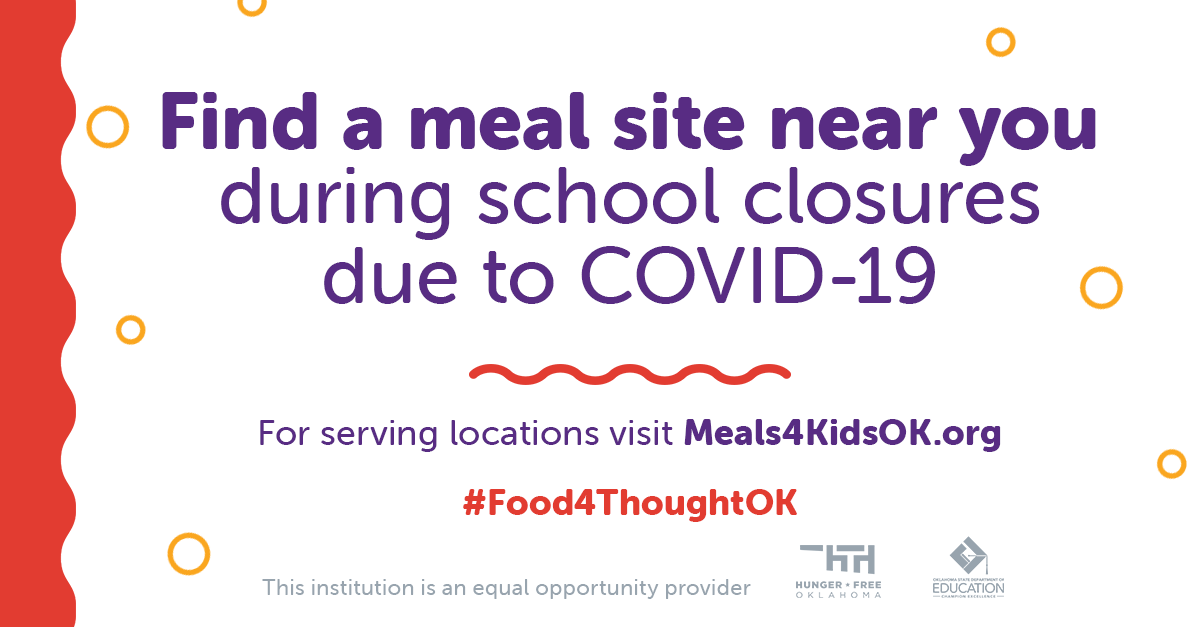
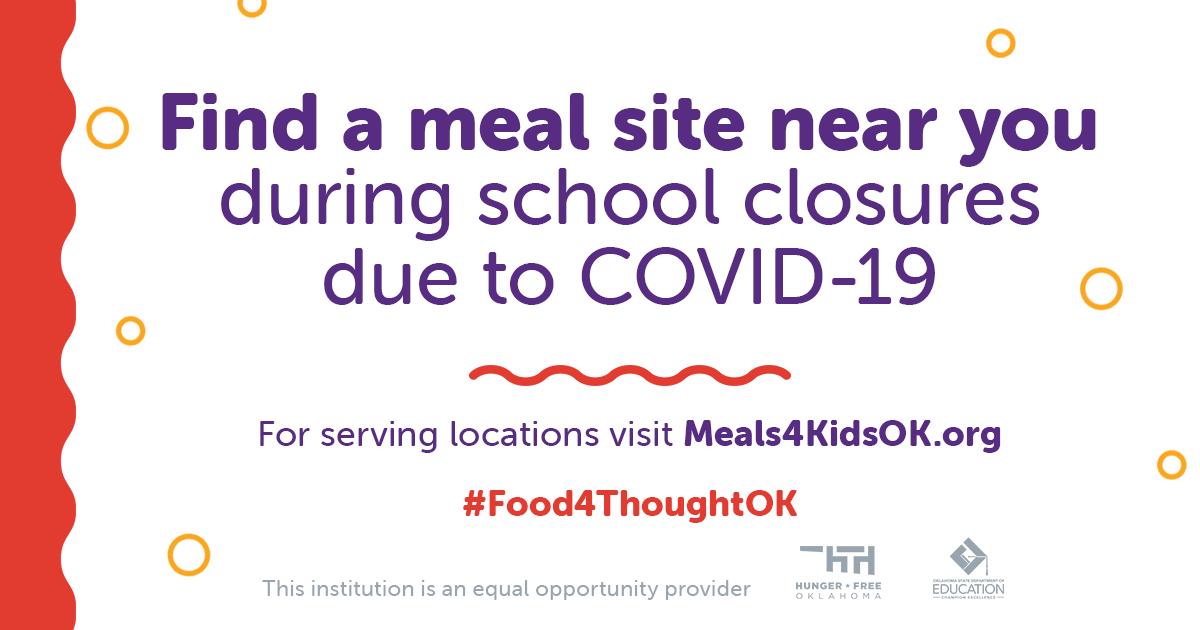
Revise OpenGraph image

diff --git a/public/index.html b/public/index.html
@@ -43,7 +43,7 @@
       content="https://meals4kidsok.org/img/meals-for-kids-ok-open-graph-covid.png"
     />
     <meta property="og:image:width" content="1200" />
-    <meta property="og:image:height" content="627" />
+    <meta property="og:image:height" content="630" />
 
     <!-- Museo Sans Rounded Font from Typekit -->
     <link rel="stylesheet" href="https://use.typekit.net/nzx2rrj.css" />
